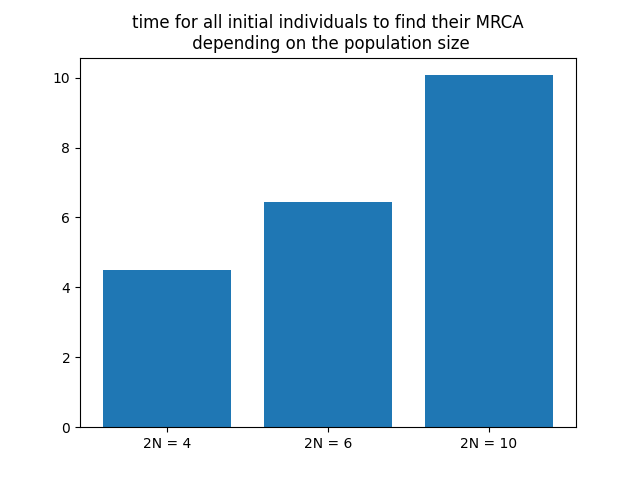
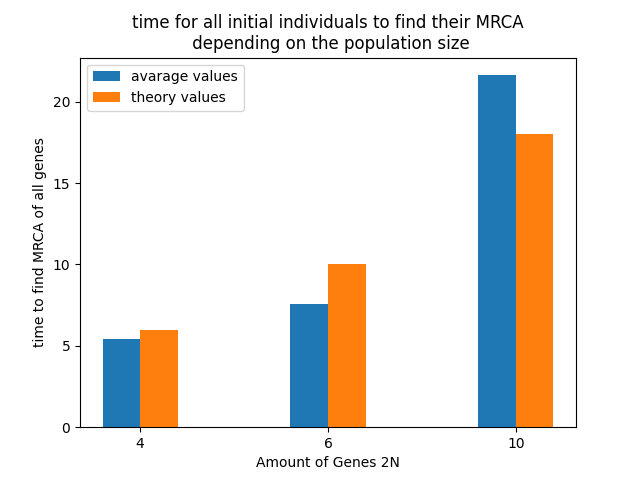
added theory values and argparse

diff --git a/assignment_06/material_A06/Robin_Bonkass_Sara_Kemmler_PopGenSimulator.py b/assignment_06/material_A06/Robin_Bonkass_Sara_Kemmler_PopGenSimulator.py
@@ -1,9 +1,32 @@
-from cmath import exp
+import argparse
 import math
 import string
-import sys
-import random  # needed in simulate_previous_generation
+import random
 import matplotlib.pyplot as plt
+import numpy as np
+
+def create_parser():
+    '''
+    Creates an argument parser to get arguments from command line.
+    '''
+
+    # Make parser object
+    p = argparse.ArgumentParser(description=__doc__,
+                                formatter_class=argparse.RawDescriptionHelpFormatter)
+
+    p.add_argument('-repeats', '--repeats', type=int,
+                   help="Amount of repeats of the simulation for each initial size")
+
+    p.add_argument('-consoleOutput', '--consoleOutput', action='store_true', 
+                   help="makes output in command line showing the generations")
+    p.add_argument('-no-consoleOutput', '--no-consoleOutput', dest='consoleOutput', action='store_false', 
+                   help="hides output in command line")
+    p.set_defaults(consoleOutput=False)
+
+    p.add_argument('-sizes', '--sizes', type=int, nargs="*",
+                   help="n numbers which represent the initial population sizes")
+
+    return(p.parse_args())
 
 def get_random_pair(current_generation_array):
     """
@@ -88,24 +111,25 @@ class PopGenSimulator:
         current_generation_array=[]
         current_generation_array[:0]=current_generation
 
-        waiting_time = 0
+        # waiting_time = 0
         waiting_time_return = 0
+        waiting_time = waiting_time_overlap
 
-        if(waiting_time_overlap > 0):
-            current_generation_array = get_random_pair(current_generation_array)
-            k -= 1
-            waiting_time = waiting_time_overlap
-
-        while(waiting_time<=1 and k >= 2):
-            random_uniform = random.uniform(0,1)
-            waiting_time += ((0-(math.comb(k,2) ** (-1))) * math.log(random_uniform)) * self.size
-            self.time += ((0-(math.comb(k,2) ** (-1))) * math.log(random_uniform)) * self.size
-            if(waiting_time <= 1):
+        if(waiting_time_overlap <= 1):
+            if(waiting_time_overlap > 0):
                 current_generation_array = get_random_pair(current_generation_array)
                 k -= 1
+            
+            while(waiting_time<=1 and k >= 2):
+                random_uniform = random.uniform(0,1)
+                waiting_time += ((0-(math.comb(k,2) ** (-1))) * math.log(random_uniform)) * self.size
+                self.time += ((0-(math.comb(k,2) ** (-1))) * math.log(random_uniform)) * self.size
+                if(waiting_time <= 1):
+                    current_generation_array = get_random_pair(current_generation_array)
+                    k -= 1
 
         previous_generation = "".join(current_generation_array)
-
+        
         if(waiting_time > 1):
             waiting_time_return = waiting_time - 1
 
@@ -137,7 +161,7 @@ class PopGenSimulator:
 
         return string.ascii_lowercase[0:self.size]
 
-    def simulate(self):
+    def simulate(self, console_output):
 
         # generate initial population
         generation = 0
@@ -145,9 +169,10 @@ class PopGenSimulator:
         k = self.size
         current_generation = self.make_initial_generation()
         
-        print(str(generation), end="")
-        print("\t", end="")
-        print(current_generation)
+        if(console_output):
+            print(str(generation), end="")
+            print("\t", end="")
+            print(current_generation)
 
         # run the simulator, print out each generation 
         # until the MRCA of all existing individuals is reached
@@ -155,18 +180,22 @@ class PopGenSimulator:
             generation -= 1
             [current_generation, k, waiting_time_overlap] = self.simulate_previous_generation(current_generation, k, waiting_time_overlap)
 
-            print(str(generation), end="")
-            print("\t", end="")
-            print(current_generation)
+            if(console_output):
+                print(str(generation), end="")
+                print("\t", end="")
+                print(current_generation)
 
         return self.time
 
 def main():
     try:
 
-        # simulate three times for each 2N = 4,6,10
-        simulation_sizes = [4,6,10]
-        simulation_repeats = 3
+        args = create_parser()
+
+        # simulate "repeats" times for each 2N = "sizes"
+        simulation_sizes = args.sizes
+        simulation_repeats = args.repeats
+        console_output = args.consoleOutput
 
         # collect time to find MRCA for every iteration
         # initialize the array used for this
@@ -177,16 +206,18 @@ def main():
         for size in simulation_sizes:
             for i in range(simulation_repeats):
 
-                print(i+1, end="")
-                print(". simulation for N2 = ", end="")
-                print(size, end="")
-                print(":")
-                print("---------------------------")
+                if(console_output):
+                    print(i+1, end="")
+                    print(". simulation for N2 = ", end="")
+                    print(size, end="")
+                    print(":")
+                    print("---------------------------")
 
                 pop_gen_simulator = PopGenSimulator(size)
-                times[str(size)].append(pop_gen_simulator.simulate())
+                times[str(size)].append(pop_gen_simulator.simulate(console_output))
 
-                print("===========================")
+                if(console_output):
+                    print("===========================")
 
         # get the values for the y axis for the plot
         values = []
@@ -196,22 +227,33 @@ def main():
                 sum += i
             avarage = sum/simulation_repeats
             values.append(avarage)
+
+        # get the theory values
+        values_theory = []
+        for size in times:
+            values_theory.append(2 * (1 - (1 / int(size))) * int(size))
         
         # get the names for the x-Axis for the plot
         names = []
         for size in times:
-            name = "2N = "
-            name += str(size)
+            name = str(size)
             names.append(name)
+        x_axis = np.arange(len(names))
 
-        plt.bar(names, values)
+        plt.bar(x_axis - 0.1, values,        0.2, label="avarage values")
+        plt.bar(x_axis + 0.1, values_theory, 0.2, label="theory values")
+
+        plt.xticks(x_axis, names)
+        plt.xlabel("Amount of Genes 2N")
+        plt.ylabel("time to find MRCA of all genes")
         plt.title("time for all initial individuals to find their MRCA\n depending on the population size")
+        plt.legend()
         plt.show()
 
     except NameError as err:
         print(err)
     except:
-        print('python Robin_Bonkass_Sara_Kemmler_PopGenSimulator.py')
+        print('python Robin_Bonkass_Sara_Kemmler_PopGenSimulator.py -consoleOutput -repeats 3  -sizes 4 6 10')
 
 
 if __name__ == "__main__":
